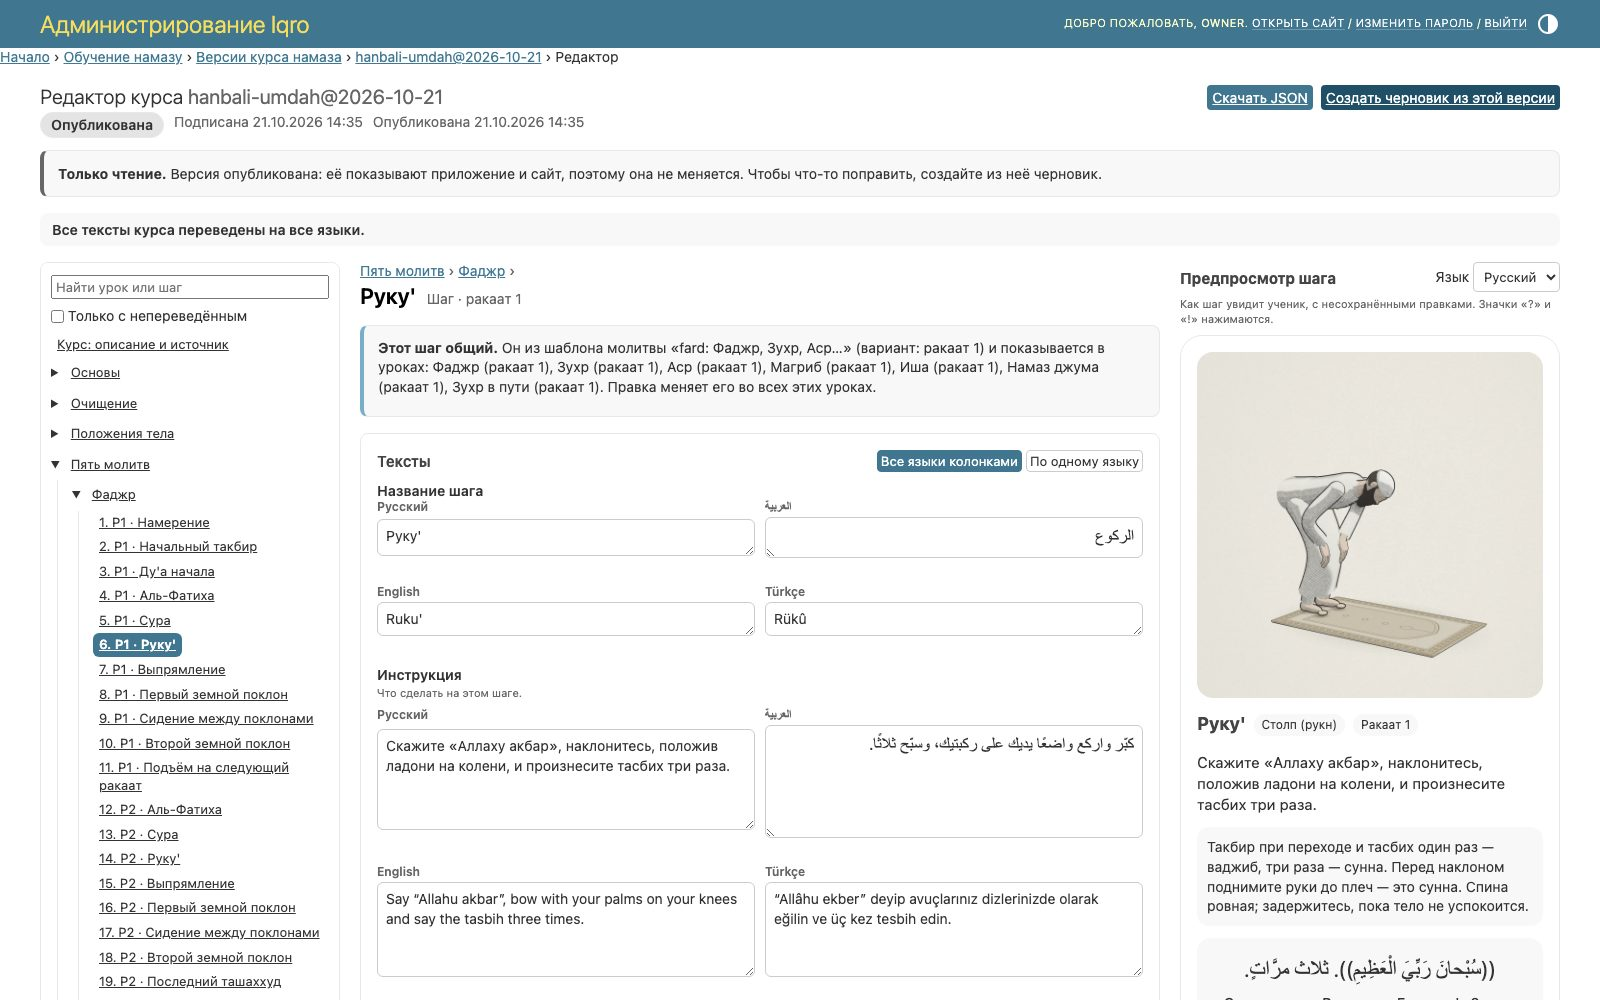
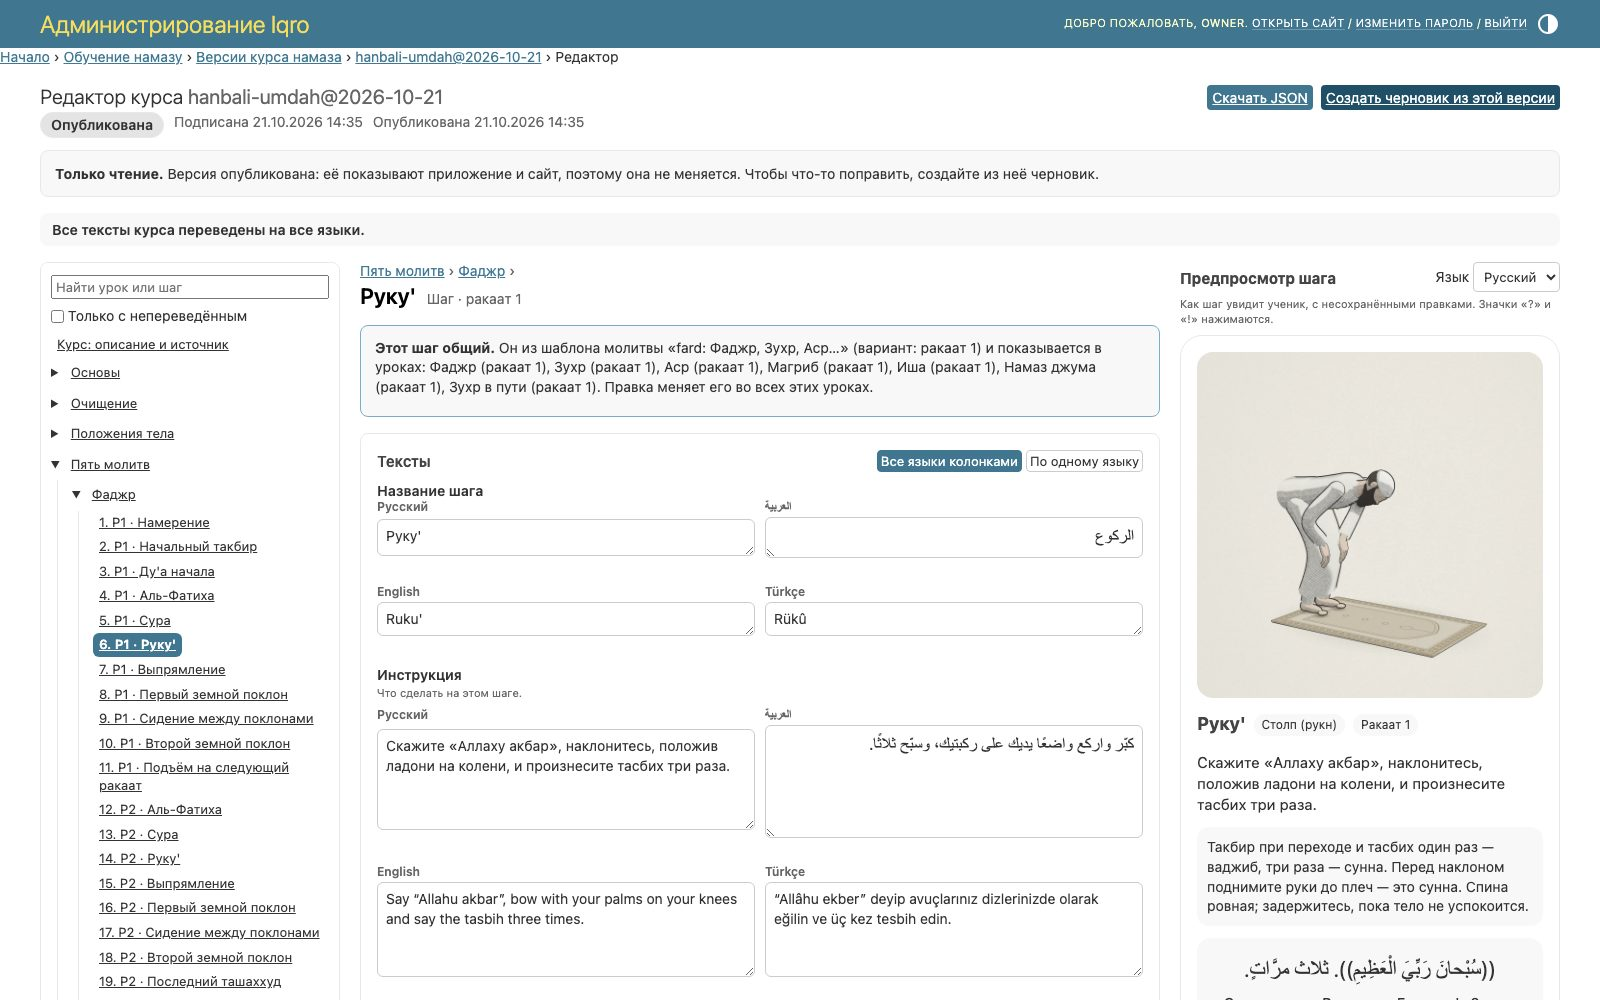
style(salah): the editor's callouts and notes without side accent bars

Changed region(s): [[0.2188, 0.341, 0.6875, 0.403], [0.0312, 0.155, 0.6875, 0.186]]

diff --git a/services/backend/src/quran_backend/modules/salah/static/salah/editor.css b/services/backend/src/quran_backend/modules/salah/static/salah/editor.css
@@ -79,12 +79,8 @@
   line-height: 1.5;
 }
 
-.se-readonly {
-  border-inline-start: 4px solid var(--body-quiet-color);
-}
-
 .se-shared {
-  border-inline-start: 4px solid var(--primary, #79aec8);
+  border-color: var(--primary, #79aec8);
 }
 
 .se-shared p {
@@ -481,14 +477,13 @@
   margin: 0 0 10px;
   padding: 10px 12px;
   border: 1px solid var(--hairline-color);
-  border-inline-start: 4px solid var(--primary, #79aec8);
   border-radius: var(--se-radius);
   background: var(--darkened-bg);
   list-style: none;
 }
 
 .se-note.is-warning {
-  border-inline-start-color: var(--se-missing-border);
+  border-color: var(--se-missing-border);
 }
 
 .se-note.is-dragging {
